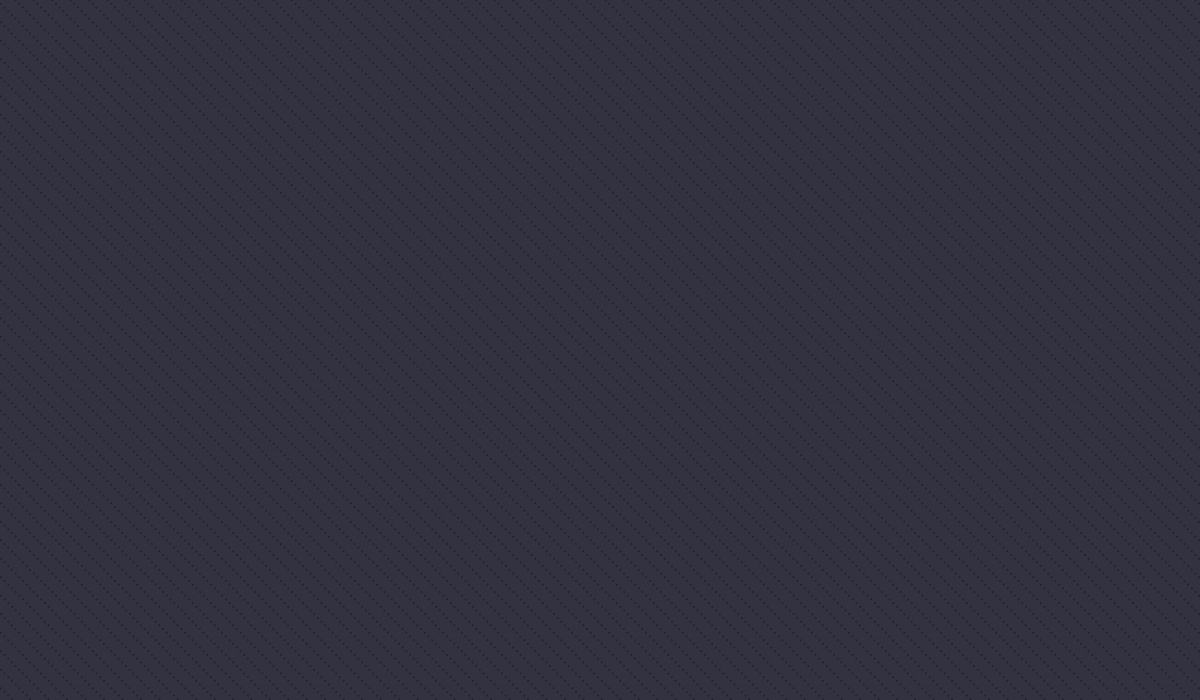
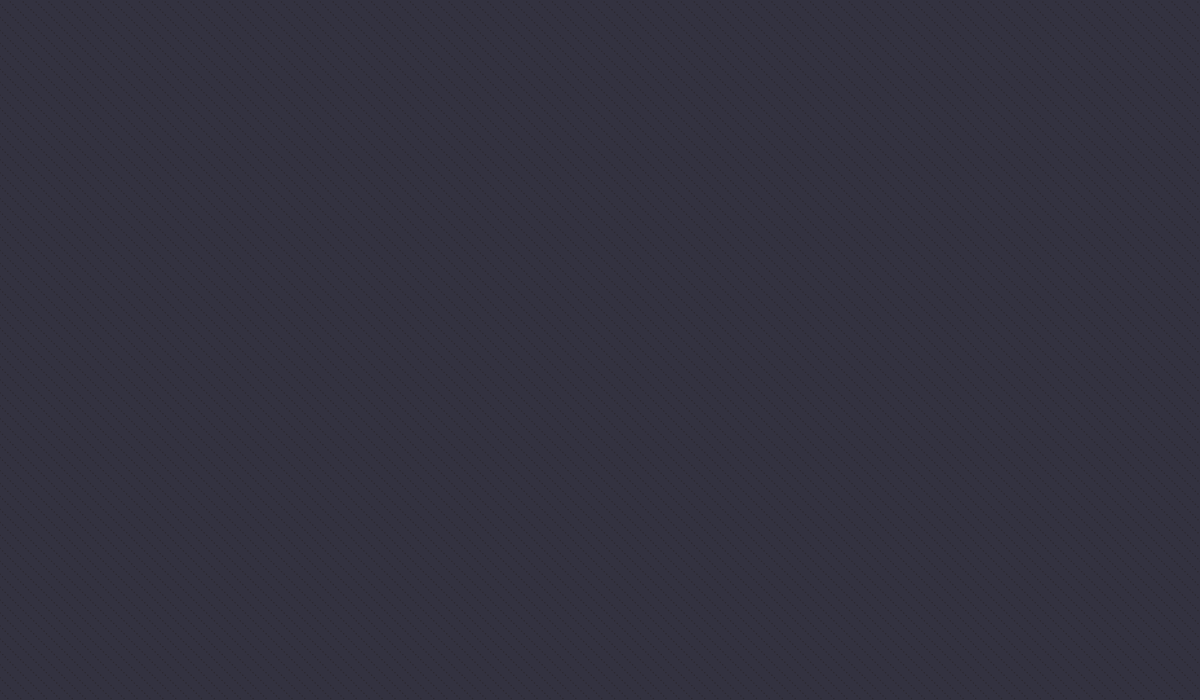
style changes

diff --git a/css/style.css b/css/style.css
@@ -214,7 +214,7 @@ ul {
 /*-------MAIN PAGE CONTENT-------*/
 
 .main-content-wrap {
-	background:rgba(58,58,58,.6);
+	background:rgba(0,0,0,.2);
 	display:none;
 	position:relative;
 	top:10em;
@@ -302,7 +302,7 @@ ul {
 /*-----FOOTBALL SECTION-----*/
 
 .football-wrap {
-	background:rgba(58,58,58,.6);
+	background:rgba(0,0,0,.2);
 	display:none;
 	position:relative;
 	width:80%;
@@ -312,7 +312,7 @@ ul {
 }
 
 .content-football {
-	background:rgba(58,58,58,.6);
+	background:rgba(0,0,0,.2);
 	position:relative;
 	width:60%;
 	float:left;
@@ -331,7 +331,7 @@ ul {
 }
 
 .football-score {
-	background:rgba(58,58,58,.6);
+	background:rgba(0,0,0,.2);
 	color:white;
 	position:relative;
 	float:right;
@@ -584,7 +584,7 @@ input[type=submit]:focus {
 }
 
 .content-baseball {
-	background:rgbaa(58,58,58,.6);
+	background:rgbaa(0,0,0,.2);
 	position:relative;
 	width:60%;
 	float:left;
@@ -592,7 +592,7 @@ input[type=submit]:focus {
 }
 
 .baseball-score {
-	background:rgba(58,58,58,.6);
+	background:rgba(0,0,0,.2);
 	position:relative;
 	float:right;
 	width:30%;
@@ -612,7 +612,7 @@ input[type=submit]:focus {
 }
 
 .content-hockey {
-	background:rgba(58,58,58,.6);
+	background:rgba(0,0,0,.2);
 	position:relative;
 	width:60%;
 	float:left;
@@ -620,7 +620,7 @@ input[type=submit]:focus {
 }
 
 .hockey-score {
-	background:rgba(58,58,58,.6);
+	background:rgba(0,0,0,.2);
 	position:relative;
 	float:right;
 	width:30%;
@@ -640,7 +640,7 @@ input[type=submit]:focus {
 }
 
 .content-basketball {
-	background:rgba(58,58,58,.6);
+	background:rgba(0,0,0,.2);
 	position:relative;
 	width:60%;
 	float:left;
@@ -649,7 +649,7 @@ input[type=submit]:focus {
 }
 
 .basketball-score {
-	background:rgba(58,58,58,.6);
+	background:rgba(0,0,0,.2);
 	position:relative;
 	float:right;
 	width:30%;
@@ -721,8 +721,8 @@ input[type=submit]:focus {
 	min-width:925px;
 	background-color:#664C3B;
 	border-top:.25em solid #7F6350;
-	height:2em;
-	line-height:2em;
+	height:2.5em;
+	line-height:2.5em;
 }
 
 .footer-content {
